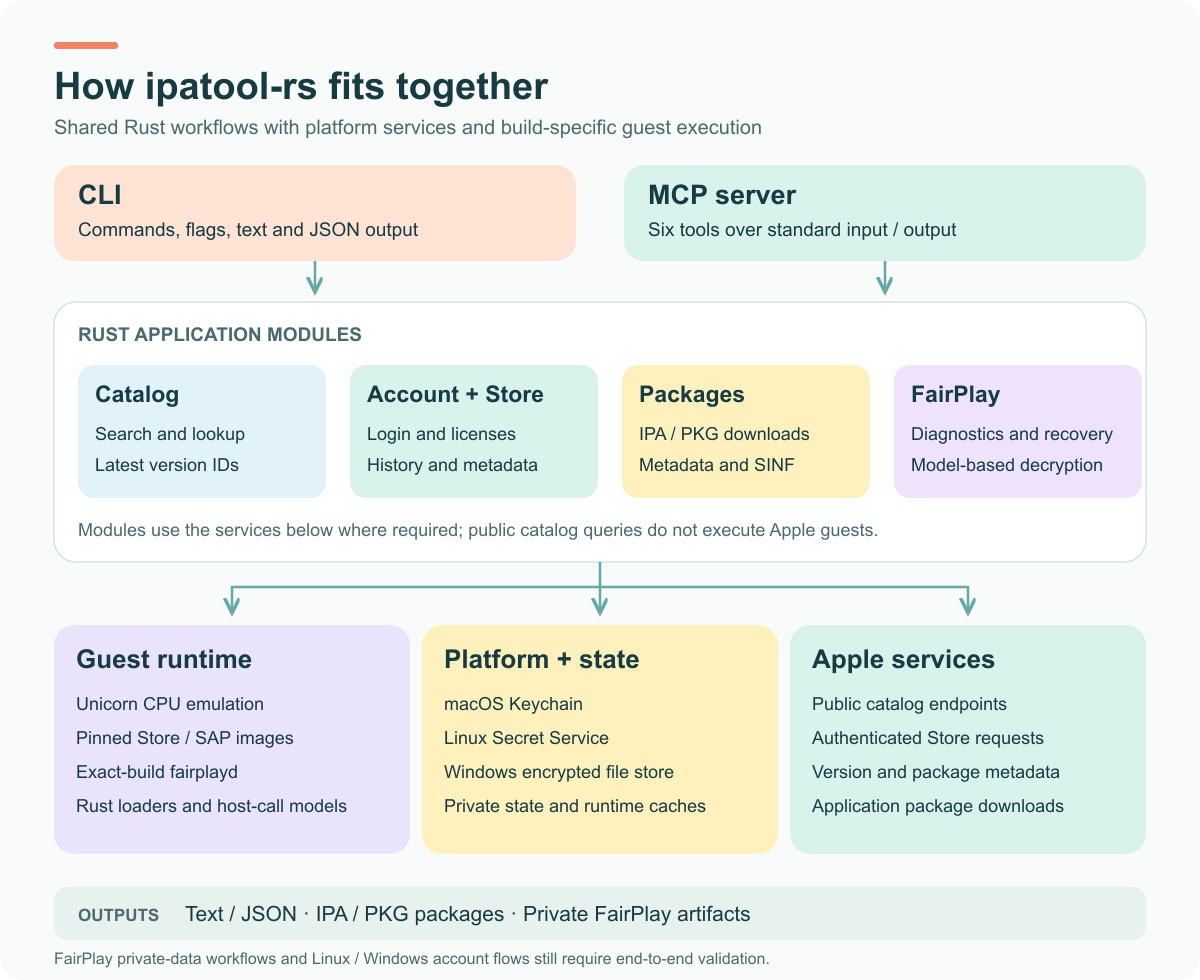
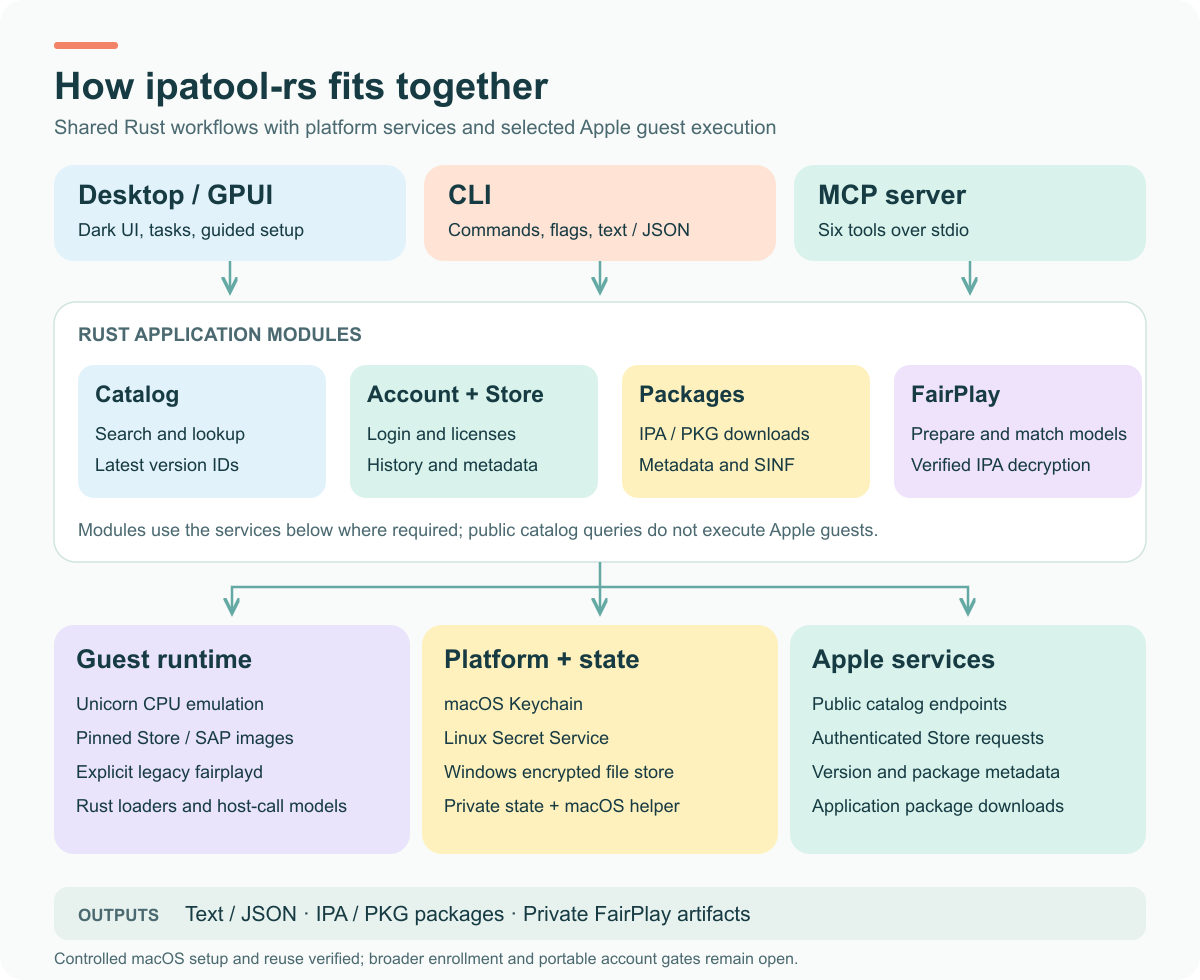
Document v0.3.0 release and installed desktop acceptance [skip ci]

diff --git a/web/index.html b/web/index.html
@@ -111,7 +111,7 @@ ipatool-rs download --app-id 1555600758 --platform macos --output ./ScriptWidget
 
       <section class="section shell" id="architecture" aria-labelledby="architecture-title">
         <div class="section-heading"><p class="eyebrow">04 / ARCHITECTURE</p><h2 id="architecture-title">Shared Rust workflows.</h2><p>The desktop, CLI and MCP server use the same Rust modules. Public catalog requests run directly, without a saved account or Apple guest execution.</p></div>
-        <a class="architecture-image" href="./images/architecture.svg" aria-label="Open the architecture diagram as SVG"><img src="./images/architecture.png" width="1200" height="980" loading="lazy" alt="CLI and MCP architecture with shared Rust catalog, account, package, and FairPlay modules also used by the desktop, backed by an Apple guest runtime, platform services and state, and Apple endpoints."></a>
+        <a class="architecture-image" href="./images/architecture.svg?v=0.3.0" aria-label="Open the architecture diagram as SVG"><img src="./images/architecture.png?v=0.3.0" width="1200" height="980" loading="lazy" alt="The GPUI desktop, CLI and MCP server share Rust catalog, account, package and FairPlay modules, backed by platform services, private state, selected Apple guests and Apple endpoints."></a>
         <div class="usage-notes"><p>Selected Store and SAP signing paths execute pinned ARM64 Apple framework images through Unicorn. Rust supplies image loading, execution control, and host-call models. No separate Go, Python, or Swift executable is launched.</p><p>FairPlay defaults to current-format recovery ported from pinned UnfairPlay, with matching samples and plaintext page-hash checks before model publication. The legacy exact-build <code>fairplayd</code> path remains explicit; support for arbitrary authorizations is not established.</p></div>
       </section>
 

diff --git a/docs/TODO.md b/docs/TODO.md
@@ -12,7 +12,7 @@ Linux x86_64 and Windows x86_64 have native CI test, build, catalog smoke, and r
 - The published `v0.1.0` Apple Silicon macOS archive is Developer ID signed and Apple notarization returned `Accepted` with zero issues. Its signed executable is byte-identical to the notarized ZIP payload and passed a public catalog search and controlled-account purchase-history request. The Homebrew tap fetched and installed the archive, passed style, strict audit, and `brew test`, retained a valid signature, and completed an account-backed purchase-history request. Preview.2 previously passed TouchLink version listing, version metadata, and IPA download. Preview.1's hardened runtime blocked the cached Unicorn library and its JIT; later versions include the two required runtime entitlements. The 0.1.0 release does not close the gates below.
 - The published `v0.2.0` release has macOS ARM64, Linux x86_64/ARM64, and Windows x86_64/ARM64 archives and companion SHA-256 files. The release workflow passed native tests, release builds, version and public catalog smoke checks, package checksums, and signed macOS archive verification. Main and PR platform CI also passed all four portable jobs. The macOS archive was notarized with zero issues. The updated Homebrew tap passed strict audit, installation, `brew test`, code-signature verification, and public search. These account-free portable checks do not establish account or FairPlay parity.
 - The published `v0.2.1` release has only macOS ARM64, Linux x86_64, and Windows x86_64 archives with companion SHA-256 files. Main and release CI passed native tests and packaging for both portable targets; the macOS archive was signed and notarized with zero issues. All three public archive checksums passed after download. The Homebrew tap passed strict audit, installation, `brew test`, signature verification, and public search. Linux and Windows authenticated workflows remain untested.
-- The macOS ARM64 release build and signature check, 421 active library tests, 45 CLI tests, and Clippy. Three affected pinned Store guest tests also passed explicitly. The 69 ignored library tests are opt-in checks, not a count of known failures.
+- v0.3.0 passed 596 active local tests (497 library, 45 CLI, 8 helper, 46 GUI), formatting, strict default/GUI/GUI-test Clippy and ARM64 release builds. The 70 ignored library tests are opt-in checks, not a count of known failures. Five main platform CI jobs and native release CI passed; the public CLI and desktop were installed through Homebrew and verified.
 
 ## GPUI desktop preview
 
@@ -26,12 +26,12 @@ checkboxes and local/CI evidence do not close the separate live-validation gates
 - [x] Default public browsing to the loaded account's region, preserve explicit overrides during same-account refresh, and display a persistent cross-region download warning with a return-to-account-region action.
 - [x] Validate native Linux x86_64 and Windows MSVC x86_64 GUI builds, deterministic controllers and strict all-targets Clippy in CI. Windows GNU GUI cross-build and strict all-targets Clippy also pass on macOS. The successful CI run is linked in [PORTING.md](PORTING.md).
 - [ ] Validate Linux x86_64 and Windows x86_64 GUI desktop interaction and account workflows. Headless controller tests and CLI CI do not establish these gates.
-- [ ] Publish and verify the v0.3.0 Developer ID signed/notarized Apple Silicon desktop ZIP and Homebrew cask alongside the three CLI archives. Release packaging and CI verification are implemented; publication evidence is recorded after the release gates pass.
+- [x] Publish and verify v0.3.0: Developer ID signed/notarized Apple Silicon desktop ZIP and Homebrew cask alongside the three CLI archives. All five main CI jobs, native release CI, four public archive checksums, strict formula/cask audits, actual CLI upgrade/test, GUI installation/trust checks and model preservation passed. See the [release record](PORTING.md#version-030-desktop-and-homebrew-release-2026-11-03).
 - [ ] Finish fixture and live validation of the implemented account, download, and FairPlay desktop workflows, including 2FA, credential-store access, task recovery, safe cancellation, and output selection. Keep manual account/private-data checks last.
 - [x] Complete the controlled macOS Apple Silicon FairPlay processing and interruption walkthroughs (2026-11-03): real setup, verified sample, automatic independent reuse after restart, cancellation cleanup, access removal and output preservation. See the acceptance record below.
 
 - [x] Add a reviewed one-time FairPlay preparation guide, advanced validated-model import, private selector-bound model reuse, and independent automatic decryption after new IPA downloads. Advanced parameters/tools are collapsed and actions remain visible at 900×650. Synthetic crypto/controller tests and native captures pass; real macOS acceptance is recorded below.
-- [x] Validate real one-time setup followed by a different matching IPA download, automatic decryption after relaunch, content checks, cancellation and collision protection on macOS Apple Silicon. Explicit model import has synthetic coverage; same Apple ID alone does not prove matching enrollment.
+- [x] Validate real one-time setup followed by a different matching IPA download, automatic decryption after relaunch, content checks, cancellation and collision protection on macOS Apple Silicon. Explicit model import also passed against the signed v0.3.0 production bundle, with complete available sample hash coverage, private storage and temporary cleanup; same Apple ID alone does not prove matching enrollment.
 - [ ] Implement equivalent private Windows ACL enforcement before enabling managed FairPlay model storage/reuse there.
 
 ### FairPlay completion sequence (2026-11-01)
@@ -76,8 +76,8 @@ output preservation were exercised natively. See
 [the acceptance record](PORTING.md#real-fairplay-acceptance-2026-11-03) and
 [the authorization boundary](FAIRPLAY_AUTHORIZATION.md).
 
-Remaining work includes the v0.3.0 distribution gate above, accessibility, account
-challenge/session gates and native Linux/Windows account interaction. Windows
+Remaining work includes accessibility, account challenge/session gates and native
+Linux/Windows account interaction. Windows
 managed-model storage still requires equivalent ACL enforcement. Controlled
 acceptance does not establish arbitrary-enrollment or cross-platform private-data
 parity.

diff --git a/docs/PORTING.md b/docs/PORTING.md
@@ -23,19 +23,60 @@ the earlier private-flow status below for that tested host/enrollment only. See
 [the detailed acceptance record](#real-fairplay-acceptance-2026-11-03); portable
 private-data and broader account gates remain open.
 
-## Version 0.3.0 distribution preparation (2026-11-03)
+## Version 0.3.0 desktop and Homebrew release (2026-11-03)
 
-PR #7 is being prepared for the authorized main-branch merge and release.
-The release adds a separately installed Apple Silicon GPUI desktop ZIP and
-Homebrew cask to the existing three-target CLI distribution. The production
-bundle contains no test-state environment override; GUI and scoped helper share
-Developer ID signing, and packaging requires a stapled accepted notarization
-ticket. The release workflow verifies both macOS archives before publishing.
-README and the static website now describe desktop installation, account-region
-selection, one-time preparation, automatic reuse and remaining experimental gates.
-The preceding real FairPlay acceptance remains the private-flow evidence; a
-version change and public distribution do not close broader platform/account gates.
-Final publication and installation evidence is recorded after the release passes.
+[PR #7](https://github.com/everettjf/ipatool-rs/pull/7) was merged into `main`.
+Tag `v0.3.0` names merge commit `9368505940e0eb995e01f57de669e35b9f2e3d9b`.
+All five [main platform CI jobs](https://github.com/everettjf/ipatool-rs/actions/runs/41711635219)
+passed on that exact source. Full local default and GUI-test suites again passed
+497 library, 45 CLI, 8 helper and 46 GUI tests (596 active; 70 opt-in library tests
+ignored), formatting, strict default/GUI/GUI-test Clippy and ARM64 release builds.
+Workflow actionlint and changed-script shellcheck also passed.
+
+The [native release workflow](https://github.com/everettjf/ipatool-rs/actions/runs/41715373642)
+verified both macOS packages, built/tested Linux and Windows x86_64 CLI archives,
+checked portable checksums and published the latest regular
+[v0.3.0 release](https://github.com/everettjf/ipatool-rs/releases/tag/v0.3.0).
+The first hosted macOS ticket lookup lost its network connection to Apple's
+CloudKit service; retrying the failed/dependent jobs passed every original check.
+No signature, ticket, architecture or publication requirement was bypassed.
+All four public archives and four companion checksum files were independently
+downloaded and verified. The two macOS archives matched the local verified
+uploads byte for byte; no notarization-input ZIP or private state was published.
+
+Apple notarization accepted CLI submission `43c39097-bfb6-4d43-abe0-1790bdf53f80`
+and desktop submission `31f4b74e-6bf6-4260-9661-1cc85a98650f` with zero issues.
+The production GUI and scoped helper share Developer ID signing; the app has a
+stapled ticket and passed strict deep signature checks and Gatekeeper after
+extraction and Homebrew installation. Its source stamp names the tagged merge
+commit, and its Info.plist contains no test-state environment override. The
+signed extracted CLI passed its version, public catalog and controlled saved-account
+Store request in temporary isolated state, which was cleaned afterward.
+
+The [Homebrew tap update](https://github.com/everettjf/homebrew-tap/commit/3685f7c7e9ff8027f8be82f468fc8a07cc4b4ee7)
+updates `Formula/ipatool-rs.rb` and adds `Casks/ipatool-rs-gui.rb` using the verified
+public archive hashes. Both definitions passed style and strict audits. The actual
+tap upgraded the CLI to 0.3.0 and passed `brew test`, signature, byte-identity and
+public catalog checks. The cask installed `/Applications/IPATOOL-RS.app`, whose
+executables matched the notarized payload and passed installed-app trust checks.
+The GUI launched, loaded the saved account, selected its account region without
+showing the account name, and retained one private model with automatic reuse on.
+
+Before the Homebrew installation, the signed production GUI's advanced import
+validated the controlled real sample against complete available plaintext page
+hashes and saved a private model in normal application state. Model bytes matched
+the retained original; the receipt required verified pre-encryption hashes,
+private permissions passed and temporary staging was removed. Homebrew installation
+and relaunch preserved both model copies. No local collection ran for this import,
+and the collection helper remained stopped. This adds real explicit-import
+acceptance to the earlier protected-setup and independent-reuse record below.
+
+README, the static website, the three-interface architecture diagram and the
+FairPlay migration guide reflect this distribution. Public screenshots contain
+only signed-out catalog browsing. Linux/Windows live account and package flows,
+Windows managed-model ACLs, accessibility, remaining account challenges and broader
+enrollment parity remain open. GUI binaries are distributed only for Apple
+Silicon macOS; the three CLI target architectures are unchanged.
 
 ## Release snapshot (2026-10-27)
 

diff --git a/docs/GUI_TEST_MATRIX.md b/docs/GUI_TEST_MATRIX.md
@@ -1,5 +1,18 @@
 # Shared application and desktop validation matrix
 
+
+## Published desktop acceptance (2026-11-03)
+
+The signed/notarized v0.3.0 Apple Silicon desktop passed public-archive extraction,
+actual Homebrew cask installation, executable byte identity, deep signatures,
+stapled-ticket validation, Gatekeeper and native launch. Saved account loading
+and account-region selection passed without displaying the account name. A real
+advanced model import passed complete available sample page hashes, private
+permissions and cleanup; the model remained ready after installation/relaunch.
+The helper stayed stopped. The exact release source passed all five main CI jobs
+and native release CI. See the [release record](PORTING.md#version-030-desktop-and-homebrew-release-2026-11-03).
+The earlier sections retain their historical fixture and acceptance scope.
+
 Status: final local and CI validation, 2026-10-28. Keep this matrix aligned
 with [the implementation plan](CLI_GUI_IMPLEMENTATION_PLAN.md). A test proves
 only the behavior it exercises; fixture and public-catalog evidence do not close
@@ -55,7 +68,7 @@ cancellation/cleanup and output collision/preservation checks also passed. See
 | Pickers/drop inputs and artifact handoff | Native path pickers, typed drop targets, completed IPA to inspection. | Native model file and directory selection passed. Checked IPA/model handoff to decryption review passed without starting work. The signed primary GUI completed a real protected snapshot and model publication. |
 | Expert command disposition | [GUI_FAIRPLAY.md](GUI_FAIRPLAY.md) inventories supported journeys, all retained expert CLI commands, combined download flags, and startup-profile exclusions. | Reconcile with final PR scope. |
 | Native macOS bundle | Debug and release bundles built; Info.plist linted; strict ad hoc signatures passed; actual launch succeeded; application icon decoded natively. | Final debug/release rebuilds and strict signatures passed. Public release launch and native controls passed. The notarized bundle identity completed saved-account loading and a fresh entitled IPA download; live 2FA/session gates remain separate. |
-| Release CLI | Apple Silicon release script built a signed executable returning 0.2.1. | Current source rebuilt; signed executable returns 0.2.1. |
+| Release CLI | v0.3.0 signed/notarized archive passed version, signature, public catalog and controlled Store checks; the Homebrew upgrade passed `brew test` and byte identity. | Published CLI returns 0.3.0; broader account gates remain open. |
 | Portable desktop builds | Native Linux x86_64 and Windows MSVC x86_64 CI passed shared fixtures, deterministic GUI controllers, strict Clippy and GUI linking. macOS CI also passed its app-bundle build/signature checks. Windows GNU GUI cross-build and strict all-targets Clippy passed locally. See the exact run in PORTING. | Native Linux/Windows desktop and account interaction remain open. GUI CI builds are debug executables; GUI distribution/release packaging is separate. |
 | Complete local regression | Current default suite: 497 library + 45 CLI + 8 helper passed, 70 library tests ignored. GUI-test adds 46 passing desktop tests, including iOS startup over old macOS preferences, one-time setup and automatic follow-up. Strict default, production-GUI and GUI-test all-targets Clippy passed; the Developer ID release bundle and ARM64 CLI were rebuilt. The prior source `ca1f433` passed [all five native CI jobs](https://github.com/everettjf/ipatool-rs/actions/runs/40824972940); reusable-setup CI is tracked separately in PR #7. | Real desktop/account/private processing and distribution remain distinct gates. Repeat affected checks if source changes. |
 | Reviewable PR, no main merge | Reviewed changes and current native screenshot pushed to `codex/gpui-catalog` / PR #7 after local verification. Shared workflows and desktop changes are recorded separately. | Keep remaining gates explicit; never merge main in this task. |
@@ -153,8 +166,11 @@ The native harness disables private setup; positive cryptographic reuse is teste
 in the synthetic service suite. New-head portable CI is tracked in PR #7.
 
 The authorized real preparation and independent download/reuse gates passed on
-2026-11-03; see the acceptance record above. Explicit import retains synthetic
-coverage. Windows managed private storage awaits ACL support; Linux/Windows live
+2026-11-03; see the acceptance record above. Explicit import also passed in the
+signed v0.3.0 production bundle: the real sample passed complete available page
+hashes, the private model matched its source bytes, and temporary staging was
+removed without enabling collection access. Windows managed private storage
+awaits ACL support; Linux/Windows live
 interaction and broader account/enrollment gates remain open. Synthetic suites
 and screenshots alone do not establish those gates.
 

diff --git a/docs/RELEASING.md b/docs/RELEASING.md
@@ -57,3 +57,18 @@ The requested `v0.1.0` archive passed the same checks. The notarization service 
 Version `v0.2.0` was published by the [release CI workflow](https://github.com/everettjf/ipatool-rs/actions/runs/40631088067) after all four native portable jobs, macOS archive verification, and four portable checksum checks succeeded. The signed macOS archive matched its notarization ZIP executable; submission `67827331-5eb0-42bb-9140-13a1c273a606` was accepted with no issues. The public release has five archives and five checksum files. The Homebrew tap upgraded and passed strict audit, `brew test`, signature verification, and public search. The platform-specific live account gaps remain in [TODO.md](TODO.md).
 
 Version `v0.2.1` was published by the [release CI workflow](https://github.com/everettjf/ipatool-rs/actions/runs/40638453544) with two native x86_64 portable jobs and the macOS archive check. The public release has exactly three archives and three SHA-256 files; all three downloaded checksums passed. Apple notarization accepted the final macOS ZIP submission `ece034ff-f6b2-4777-a086-986974aded18` with no issues. The Homebrew tap upgraded to v0.2.1 and passed strict audit, `brew test`, signature verification, and public search. The account-backed Linux and Windows workflows remain untested.
+
+
+Version `v0.3.0` adds the signed/notarized Apple Silicon desktop ZIP and Homebrew
+cask to the three CLI archives. All five [main CI jobs](https://github.com/everettjf/ipatool-rs/actions/runs/41711635219)
+passed on the tagged merge commit `9368505`. The [release workflow](https://github.com/everettjf/ipatool-rs/actions/runs/41715373642)
+passed and published four archives and four checksum files, independently checked
+after download. A first hosted ticket-service connection loss was resolved by
+retrying only failed/dependent jobs while retaining every trust check. CLI
+notarization `43c39097-bfb6-4d43-abe0-1790bdf53f80` and desktop notarization
+`31f4b74e-6bf6-4260-9661-1cc85a98650f` were accepted with zero issues. The actual
+Homebrew formula upgrade and cask installation passed strict audits, CLI tests,
+byte identity, signatures, desktop stapler/Gatekeeper checks and native launch.
+A controlled real model import was preserved across installation/relaunch without
+re-enabling collection. The detailed [release record](PORTING.md#version-030-desktop-and-homebrew-release-2026-11-03)
+keeps the account, accessibility and portable private-data limitations explicit.

diff --git a/docs/GUI_FAIRPLAY.md b/docs/GUI_FAIRPLAY.md
@@ -194,3 +194,21 @@ account challenges and Linux/Windows private workflows remain open; synthetic
 fixtures and screenshots do not establish those gates. See
 [GUI_TEST_MATRIX.md](GUI_TEST_MATRIX.md), [PORTING.md](PORTING.md), and
 [TODO.md](TODO.md).
+
+
+## Moving an existing model to the desktop release
+
+The Homebrew desktop uses normal private application state; local preview bundles
+may have selected a different `IPATOOL_STATE_DIR`. Keep the original private state
+until migration is verified. In **First-time preparation**, continue to sample
+selection, choose the matching IPA, and expand **Advanced options** to select the
+existing model. An installed app and collection permission are not required for
+this import. Review the import summary, then choose **Prepare and save model**.
+The app validates the sample before saving a private copy and retains the source
+model and original IPA. Future matching downloads can use the saved copy.
+
+This import path passed with the signed v0.3.0 production bundle and the controlled
+real sample on 2026-11-03. Complete available plaintext page hashes passed for
+every image; private permissions, original-model equality and temporary cleanup
+were checked. The collection helper remained disabled. The managed model is user
+state and is never part of the downloadable app or Homebrew package.

diff --git a/docs/CLI_GUI_IMPLEMENTATION_PLAN.md b/docs/CLI_GUI_IMPLEMENTATION_PLAN.md
@@ -1,14 +1,16 @@
 # CLI and GPUI implementation plan
 
-Status: implementation and local validation in progress, 2026-10-28.
+Status: controlled macOS acceptance completed and v0.3.0 published, 2026-11-03.
+The milestone history below records the original 2026-10-28 development plan.
 Checkboxes record implemented and locally verified work; each milestone's exit
 evidence remains a separate acceptance gate. Current validation is recorded in
 `docs/PORTING.md` and `docs/GUI_TEST_MATRIX.md`; fixture evidence does not establish
 live account, private FairPlay, or portable desktop completion.
 
-Continue on `codex/gpui-catalog` and PR #7. The immediate objective is a shared
-Rust application layer supporting a compatible CLI and a usable GPUI desktop
-application. Publishing a Rust package is deferred.
+PR #7 was merged into `main`. The shared Rust application layer now supports the
+CLI and published Apple Silicon GPUI desktop. The [release record](PORTING.md#version-030-desktop-and-homebrew-release-2026-11-03)
+links the exact source, CI, notarization and Homebrew acceptance. Publishing a Rust
+package remains deferred.
 
 The project remains an experimental Rust rewrite created to use otherwise-unused
 Codex quota and test a substantial port. Recommend the original ipatool and

diff --git a/README.md b/README.md
@@ -88,6 +88,12 @@ macOS:
 shasum -a 256 -c ipatool-rs-*-macos-arm64.tar.gz.sha256
 ```
 
+For the macOS desktop ZIP:
+
+```sh
+shasum -a 256 -c ipatool-rs-*-gui-macos-arm64.zip.sha256
+```
+
 Linux:
 
 ```sh
@@ -180,7 +186,7 @@ Use `ipatool-rs --help` or a command's `--help` for its available options.
 
 ## Architecture
 
-![ipatool-rs architecture: CLI and MCP share Rust workflows backed by platform services, Apple endpoints, and build-specific guest execution.](docs/images/architecture.png)
+![ipatool-rs architecture: desktop, CLI and MCP share Rust workflows backed by platform services, Apple endpoints and selected guest execution.](docs/images/architecture.png)
 
 The CLI, MCP server, and optional GPUI desktop share Rust application modules. Public catalog queries use the catalog client directly and do not need a saved account or Apple guest execution.
 
